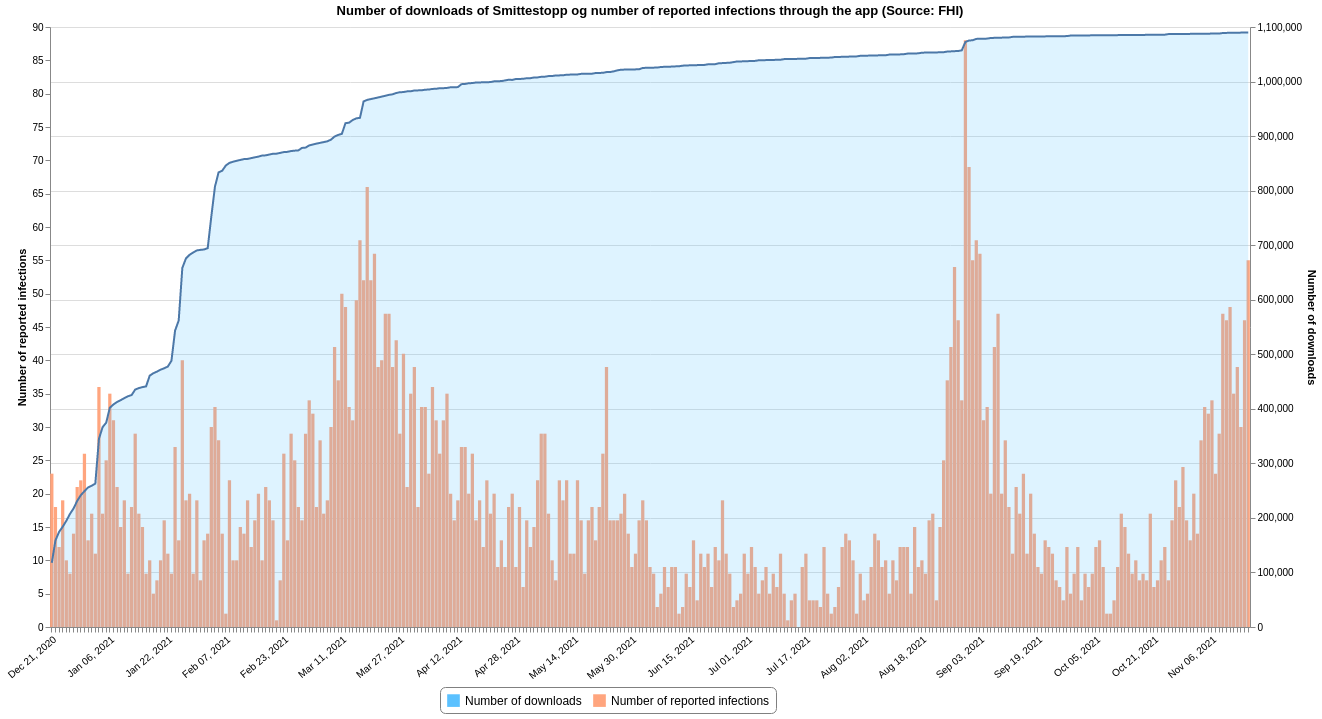
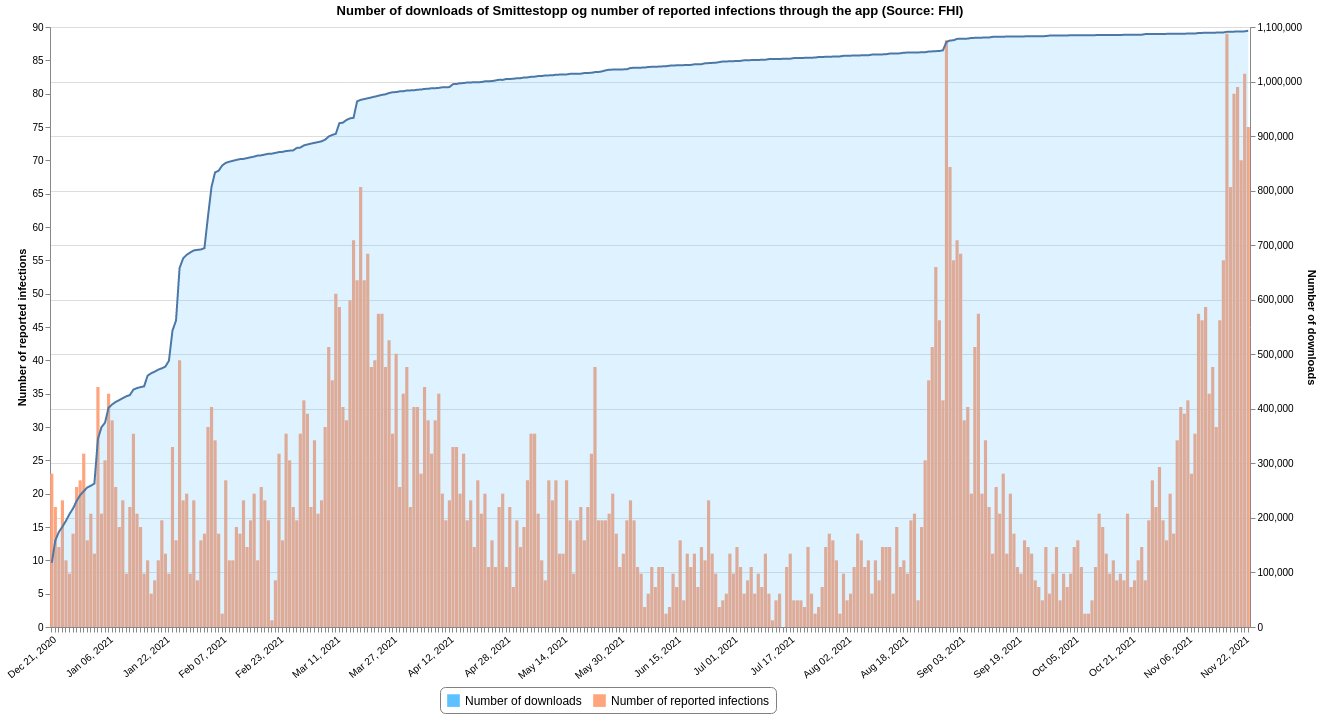
Updated 2021-11-24 13:51

diff --git a/README.md b/README.md
@@ -17,7 +17,7 @@ This repository contains datasets of daily time-series data related to COVID-19 
 |[Tested Lab](#tested_labcsv)|FHI|2021-11-24 13:20:48+01:00|[<center>csv</center>](https://raw.githubusercontent.com/frefrik/covid19norge-data/main/data/tested_lab.csv)|[<center>preview</center>](data/tested_lab.csv)|
 |[Transport](#transportcsv)|FHI|2021-09-24 23:10:46+02:00|[<center>csv</center>](https://raw.githubusercontent.com/frefrik/covid19norge-data/main/data/transport.csv)|[<center>preview</center>](data/transport.csv)|
 |[Vaccine Doses](#vaccine_dosescsv)|FHI|2021-11-24 13:20:53+01:00|[<center>csv</center>](https://raw.githubusercontent.com/frefrik/covid19norge-data/main/data/vaccine_doses.csv)|[<center>preview</center>](data/vaccine_doses.csv)|
-|[Smittestopp](#smittestoppcsv)|FHI|2021-11-17 11:31:00+01:00|[<center>csv</center>](https://raw.githubusercontent.com/frefrik/covid19norge-data/main/data/smittestopp.csv)|[<center>preview</center>](data/smittestopp.csv)|
+|[Smittestopp](#smittestoppcsv)|FHI|2021-11-24 13:50:54+01:00|[<center>csv</center>](https://raw.githubusercontent.com/frefrik/covid19norge-data/main/data/smittestopp.csv)|[<center>preview</center>](data/smittestopp.csv)|
 <!-- table ends -->
 
 ## Datafiles
